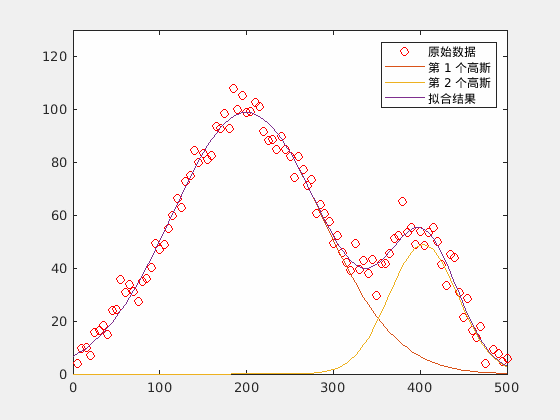
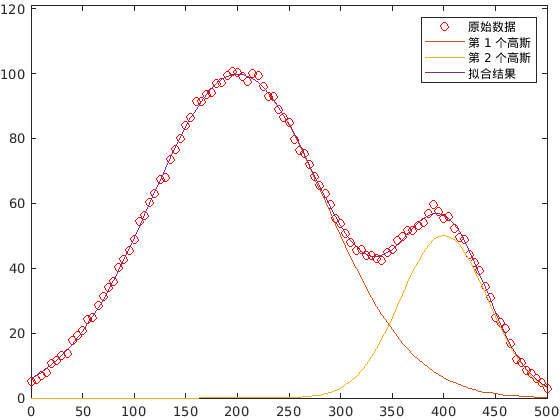
[update] update visualization
1. add aplha for png
2. reduce whitespace of figure

diff --git a/visualizationProcess.m b/visualizationProcess.m
@@ -36,10 +36,28 @@ if strcmpi(result, 'final')
     plot(x, G)
     legend_cell{end} = '拟合结果';
     legend(legend_cell)
-    [A, map] = rgb2ind(frame2im(getframe(gcf)), 256);
-    imwrite(A, map, '拟合结果.png');
+    
+    ax = gca;
+    outerpos = ax.OuterPosition;
+    ti = ax.TightInset;
+    left = outerpos(1) + ti(1);
+    bottom = outerpos(2) + ti(2);
+    ax_width = outerpos(3) - ti(1) - ti(3);
+    ax_height = outerpos(4) - ti(2) - ti(4);
+    ax.Position = [left bottom ax_width ax_height];
+    
+    set(gca, 'color', 'none');
+    fig_rgb = getframe(gcf);
+    fig_rgb = fig_rgb.cdata;
+    alpha = ones(size(fig_rgb, 1), size(fig_rgb, 2));
+    fig_gray = rgb2gray(fig_rgb);
+    alpha(fig_gray==240) = 0;
+    imwrite(fig_rgb, '拟合结果.png', 'Alpha', alpha);
+
 elseif strcmpi(result, 'process')
     figure('NumberTitle', 'off', 'Name', 'Process of Gaussian Fitting')
+    T = tiledlayout(2,1);
+
     err = outStruct.error;
     err_df = err(2:end) - err(1:end-1);
     err_df = round(err_df * 10000)/10000;
@@ -49,7 +67,7 @@ elseif strcmpi(result, 'process')
     end
 
     for frm = 1 : step : num
-        subplot(211)
+        nexttile(1)
         plot(x, y, 'ro')
         axis([0, max(x), 0, max(y)*1.2])
         legend_cell{1} = '原始数据';
@@ -70,19 +88,18 @@ elseif strcmpi(result, 'process')
         legend(legend_cell)
         hold off,
         
-        subplot(212)
-        % plot(outStruct.error(1:frm))
+        nexttile(2)
         semilogy(outStruct.error(1:frm))
-        % xlabel('iter')
-        % ylabel('error')
         
-        suptitle(['第 ', num2str(frm), ' 次迭代']);
-    
+        title(T, ['第 ', num2str(frm), ' 次迭代']);
+        T.TileSpacing = 'compact';
+        T.Padding = 'compact';
+
         [A, map] = rgb2ind(frame2im(getframe(gcf)), 256);
         if frm == 1
-            imwrite(A, map, '迭代过程.gif', 'gif', 'Loopcount',inf, 'DelayTime',0.005);
+            imwrite(A, map, '迭代过程.gif', 'gif', 'Loopcount',inf, 'DelayTime',0.05);
         else
-            imwrite(A, map, '迭代过程.gif', 'gif', 'WriteMode','append', 'DelayTime',0.005);
+            imwrite(A, map, '迭代过程.gif', 'gif', 'WriteMode','append', 'DelayTime',0.05);
         end
     end
 else
